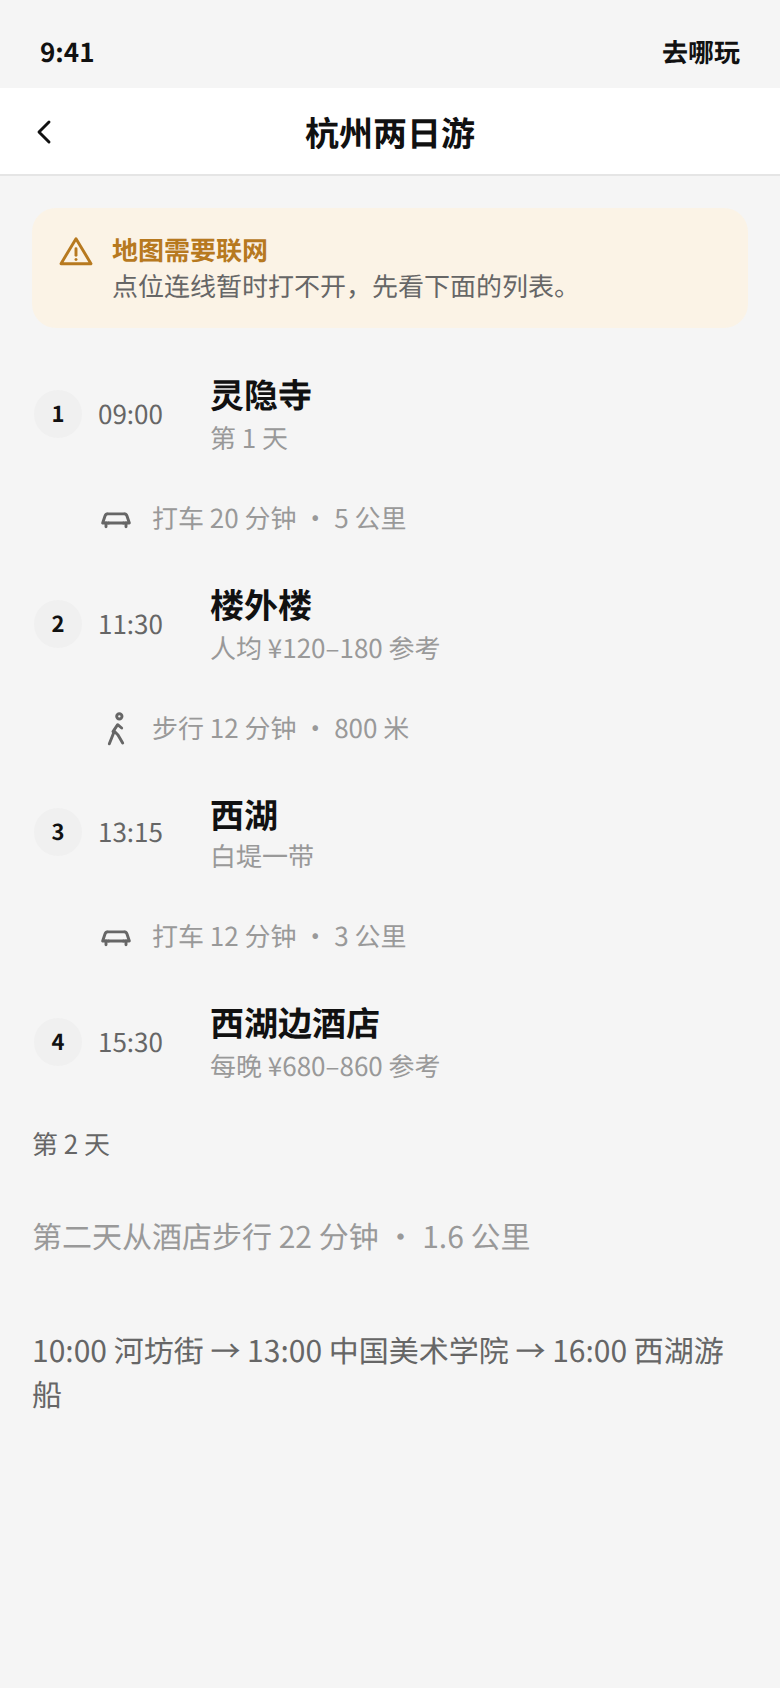
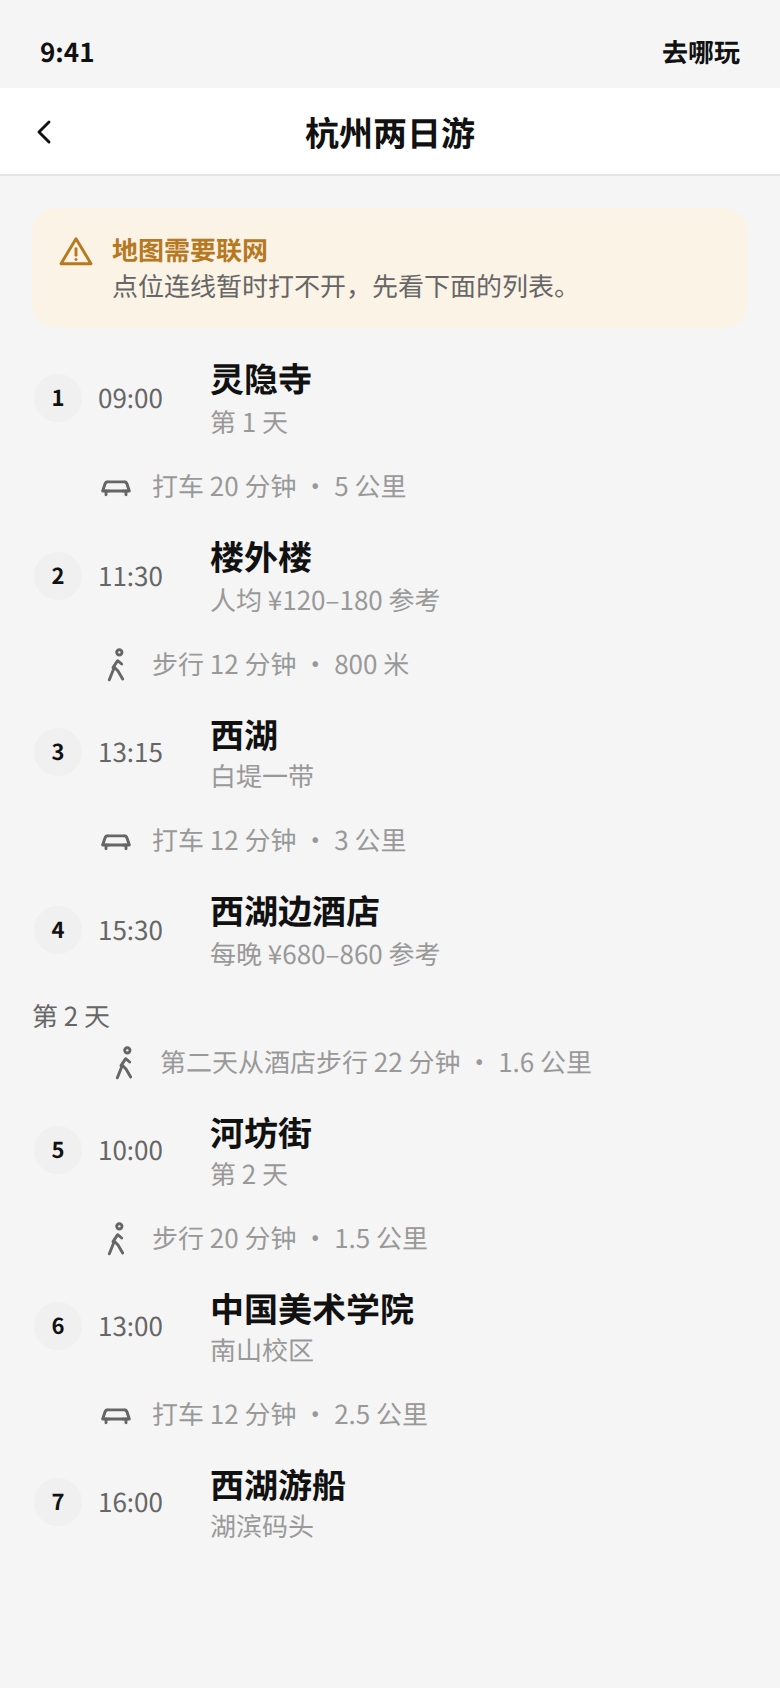
docs(design): end the day 2 route on pin 7
The light-gray line now runs through 河坊街, 中国美术学院 and 西湖游船,
and the offline list shows the same three stops.

diff --git a/docs/travel-planner/design/prototype/pages/P07-b-map-fallback.html b/docs/travel-planner/design/prototype/pages/P07-b-map-fallback.html
@@ -14,7 +14,7 @@
 
 <div class="sysbar"><span>9:41</span><span>去哪玩</span></div>
 <header class="navbar"><a class="navbar-back" href="P07-a-map.html" aria-label="返回"><svg class="icon" aria-hidden="true"><use href="#i-back"/></svg></a><div class="navbar-title">杭州两日游</div><span class="navbar-action"></span></header>
-<div class="screen-body">
+<div class="screen-body is-dense">
   <div class="banner banner-warning">
     <svg class="icon" aria-hidden="true"><use href="#i-alert"/></svg>
     <div>
@@ -58,8 +58,33 @@
     </div>
   </article>
   <p class="t-caption">第 2 天</p>
-  <p class="dim" data-qnw="d2.morning">第二天从酒店步行 22 分钟 · 1.6 公里</p>
-  <p class="t-body" data-qnw="d2.plan">10:00 河坊街 → 13:00 中国美术学院 → 16:00 西湖游船</p>
+  <div class="transport"><svg class="icon" aria-hidden="true"><use href="#i-walk"/></svg><span data-qnw="d2.morning">第二天从酒店步行 22 分钟 · 1.6 公里</span></div>
+  <article class="itinerary is-flat">
+    <span class="stop-num">5</span>
+    <time class="itinerary-time" data-qnw="d2.hefang">10:00</time>
+    <div>
+      <div class="itinerary-title">河坊街</div>
+      <div class="itinerary-meta">第 2 天</div>
+    </div>
+  </article>
+  <div class="transport"><svg class="icon" aria-hidden="true"><use href="#i-walk"/></svg><span data-qnw="d2.toMeiyuan">步行 20 分钟 · 1.5 公里</span></div>
+  <article class="itinerary is-flat">
+    <span class="stop-num">6</span>
+    <time class="itinerary-time" data-qnw="d2.meiyuan">13:00</time>
+    <div>
+      <div class="itinerary-title">中国美术学院</div>
+      <div class="itinerary-meta">南山校区</div>
+    </div>
+  </article>
+  <div class="transport"><svg class="icon" aria-hidden="true"><use href="#i-car"/></svg><span data-qnw="d2.toBoat">打车 12 分钟 · 2.5 公里</span></div>
+  <article class="itinerary is-flat">
+    <span class="stop-num">7</span>
+    <time class="itinerary-time" data-qnw="d2.boat">16:00</time>
+    <div>
+      <div class="itinerary-title">西湖游船</div>
+      <div class="itinerary-meta">湖滨码头</div>
+    </div>
+  </article>
 </div>
 
 </main>

diff --git a/docs/travel-planner/design/prototype/sample-data.js b/docs/travel-planner/design/prototype/sample-data.js
@@ -51,6 +51,11 @@
     "d2.chain": "河坊街 → 中国美术学院 → 西湖游船",
     "d2.morning": "第二天从酒店步行 22 分钟 · 1.6 公里",
     "d2.plan": "10:00 河坊街 → 13:00 中国美术学院 → 16:00 西湖游船",
+    "d2.hefang": "10:00",
+    "d2.toMeiyuan": "步行 20 分钟 · 1.5 公里",
+    "d2.meiyuan": "13:00",
+    "d2.toBoat": "打车 12 分钟 · 2.5 公里",
+    "d2.boat": "16:00",
     "d1.movedLake": "11:22",
     "d1.lingyinToLake": "打车 22 分钟 · 6 公里",
     "ticket.lingyin": "门票 ¥45–75 参考",

diff --git a/docs/travel-planner/design/prototype/pages/P07-a-map.html b/docs/travel-planner/design/prototype/pages/P07-a-map.html
@@ -32,6 +32,7 @@
   <span class="pin" style="left:36%;top:78%">4</span>
   <span class="pin" style="left:62%;top:80%">5</span>
   <span class="pin" style="left:66%;top:54%">6</span>
+  <span class="pin" style="left:78%;top:22%">7</span>
 </div>
 <div class="map-sheet">
   <p class="t-caption">第 1 天 · 深灰 · 第 2 天 · 浅灰</p>

diff --git a/docs/travel-planner/design/prototype/components.css b/docs/travel-planner/design/prototype/components.css
@@ -997,6 +997,10 @@ button {
   padding: 0 var(--space-16);
 }
 
+.screen-body.is-dense {
+  gap: var(--space-4);
+}
+
 .screen-body.center {
   align-items: center;
   justify-content: center;
